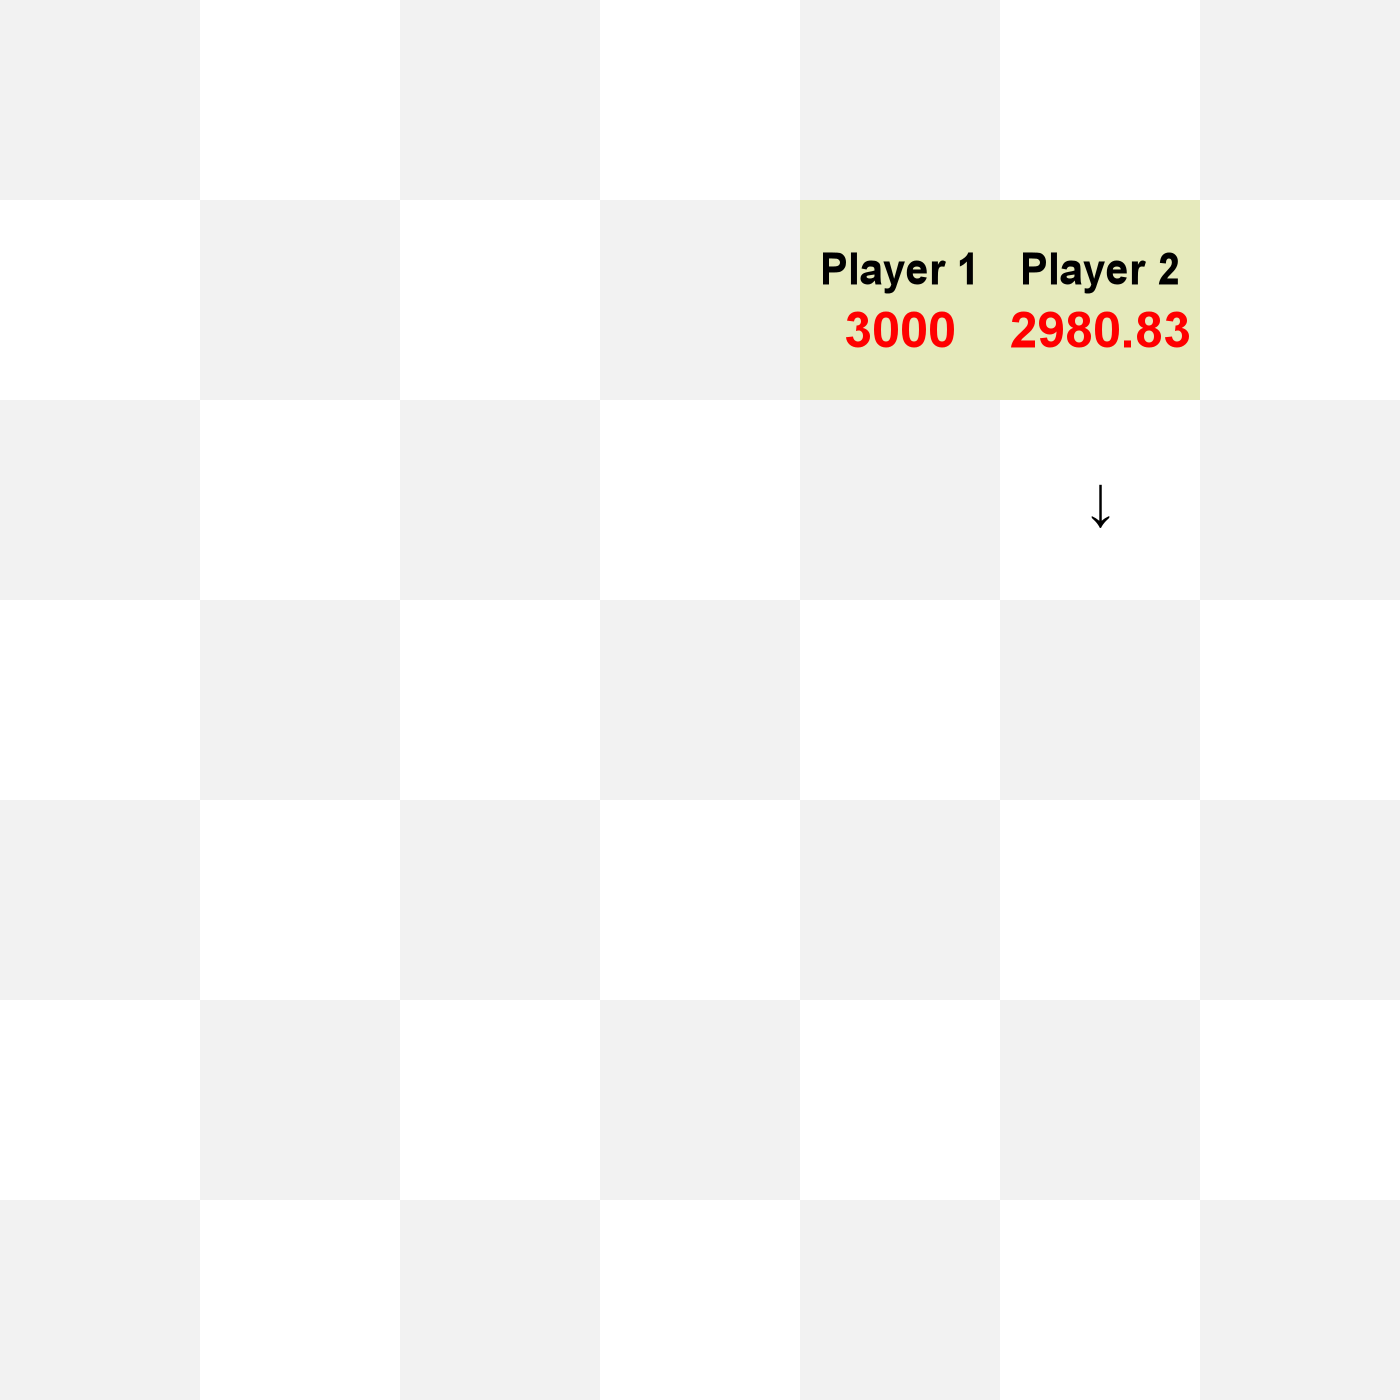
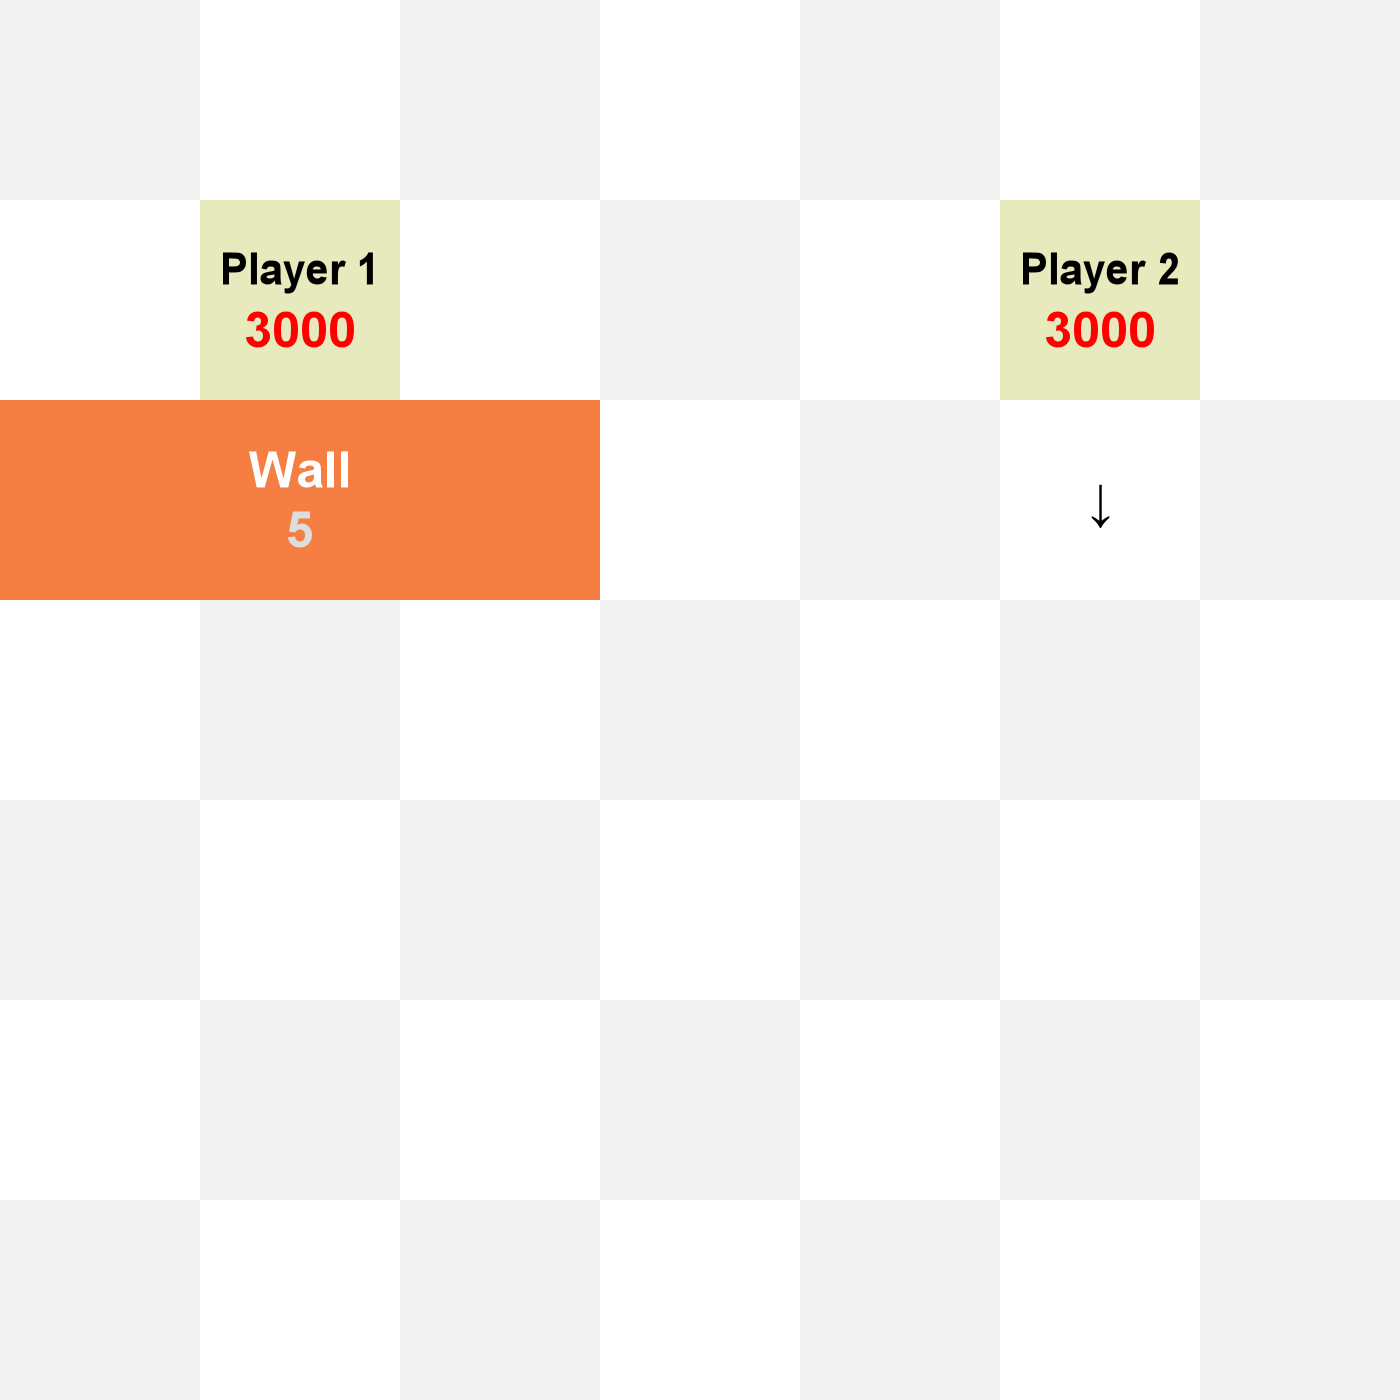
Update output

Changed region(s): [[0.0, 0.1229, 0.43, 0.43], [0.5529, 0.1229, 0.86, 0.3071]]

diff --git a/src/gameTest.ts b/src/gameTest.ts
@@ -4,6 +4,7 @@ import GameManager from "./game/core/GameManager.js";
 import Player from "./game/core/Player.js";
 import placeable from "./bundles/placeable.js";
 import initItemManager from "./util/initItemManager.js";
+import item from "./bundles/item.js";
 import type Game from "./game/core/Game.js";
 
 const outDir = path.join("out");
@@ -69,14 +70,17 @@ function run() {
     })
   ];
 
+  players[0].addItem(item.basic.Brick);
+  players[0].useItem(0);
+
   game.messageSender.send("Hello, World!");
   game.messageSender.send("t: " + new Date().getTime());
   
   setInterval(() => {
-    players[0].move(1, 0);
+    players[0].move(0, 1);
     logImage(game, "game");
-    players[1].status.baseDef += 0.5;
-    game.messageSender.send(`Increased Player 2's baseDef by 0.5 (-> ${players[1].status.baseDef.toFixed(1)})`);
+    players[1].status.baseDef += 0.1;
+    game.messageSender.send(`Increased Player 2's baseDef by 0.1 (-> ${players[1].status.baseDef.toFixed(1)})`);
     fs.writeFileSync(getFilePath("message-log.txt"), game.messageSender.messageLog.join("\n"));
   }, 1000);
 
